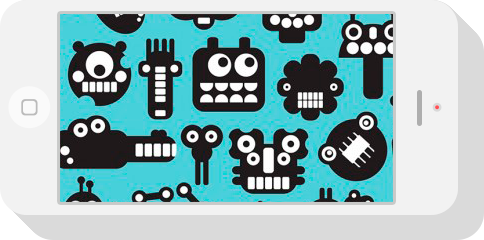
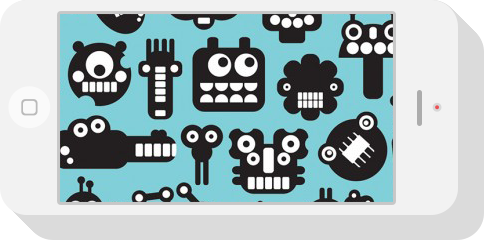
fix: change buttons in slider

Changed region(s): [[0.124, 0.0583, 0.8368, 0.8458]]

diff --git a/singolo1.css b/singolo1.css
@@ -5,6 +5,7 @@ html {
   font-family: "Lato";
 }
 
+/* Header */
 header {
   display: flex;
   height: 89px;
@@ -62,6 +63,10 @@ header {
   color: #f06c64;
 }
 
+/* Header */
+
+/* Slider */
+
 .slider {
   height: 600px;
   box-sizing: border-box;
@@ -73,6 +78,7 @@ header {
 
 .slider-container {
   width: 798px;
+  margin-left: -1px;
   margin-bottom: 3px;
   display: flex;
   justify-content: space-between;
@@ -89,19 +95,13 @@ header {
 }
 
 .next {
-  margin-right: 15px;
+  margin-right: 12px;
 }
 
-.prev a,
-.next a {
-  font-size: 36px;
-  text-decoration: none;
-  color: #ca4549;
-}
-
-.prev a:hover,
-.next a:hover {
-  color: #fff;
+.prev img:hover,
+.next img:hover {
+  border-radius: 2px;
+  background-color: #ffffffb2;
 }
 
 .vertical,
@@ -112,3 +112,5 @@ header {
 .vertical {
   margin-left: 1px;
 }
+
+/* Slider */

diff --git a/singolo1.html b/singolo1.html
@@ -45,8 +45,7 @@
     </header>
     <div class="slider">
       <div class="prev">
-        <a href="#">&#10094;</a>
-        <!-- <a href="#"><img src="assets/images/prev.png" alt="prev"/></a> -->
+        <a href="#"><img src="assets/images/prev.png" alt="prev"/></a>
       </div>
       <div class="slider-container">
         <div class="vertical">
@@ -57,8 +56,7 @@
         </div>
       </div>
       <div class="next">
-        <a href="#">&#10095;</a>
-        <!-- <a href="#"><img src="assets/images/next.png" alt="next"/></a> -->
+        <a href="#"><img src="assets/images/next.png" alt="next"/></a>
       </div>
     </div>
   </body>
